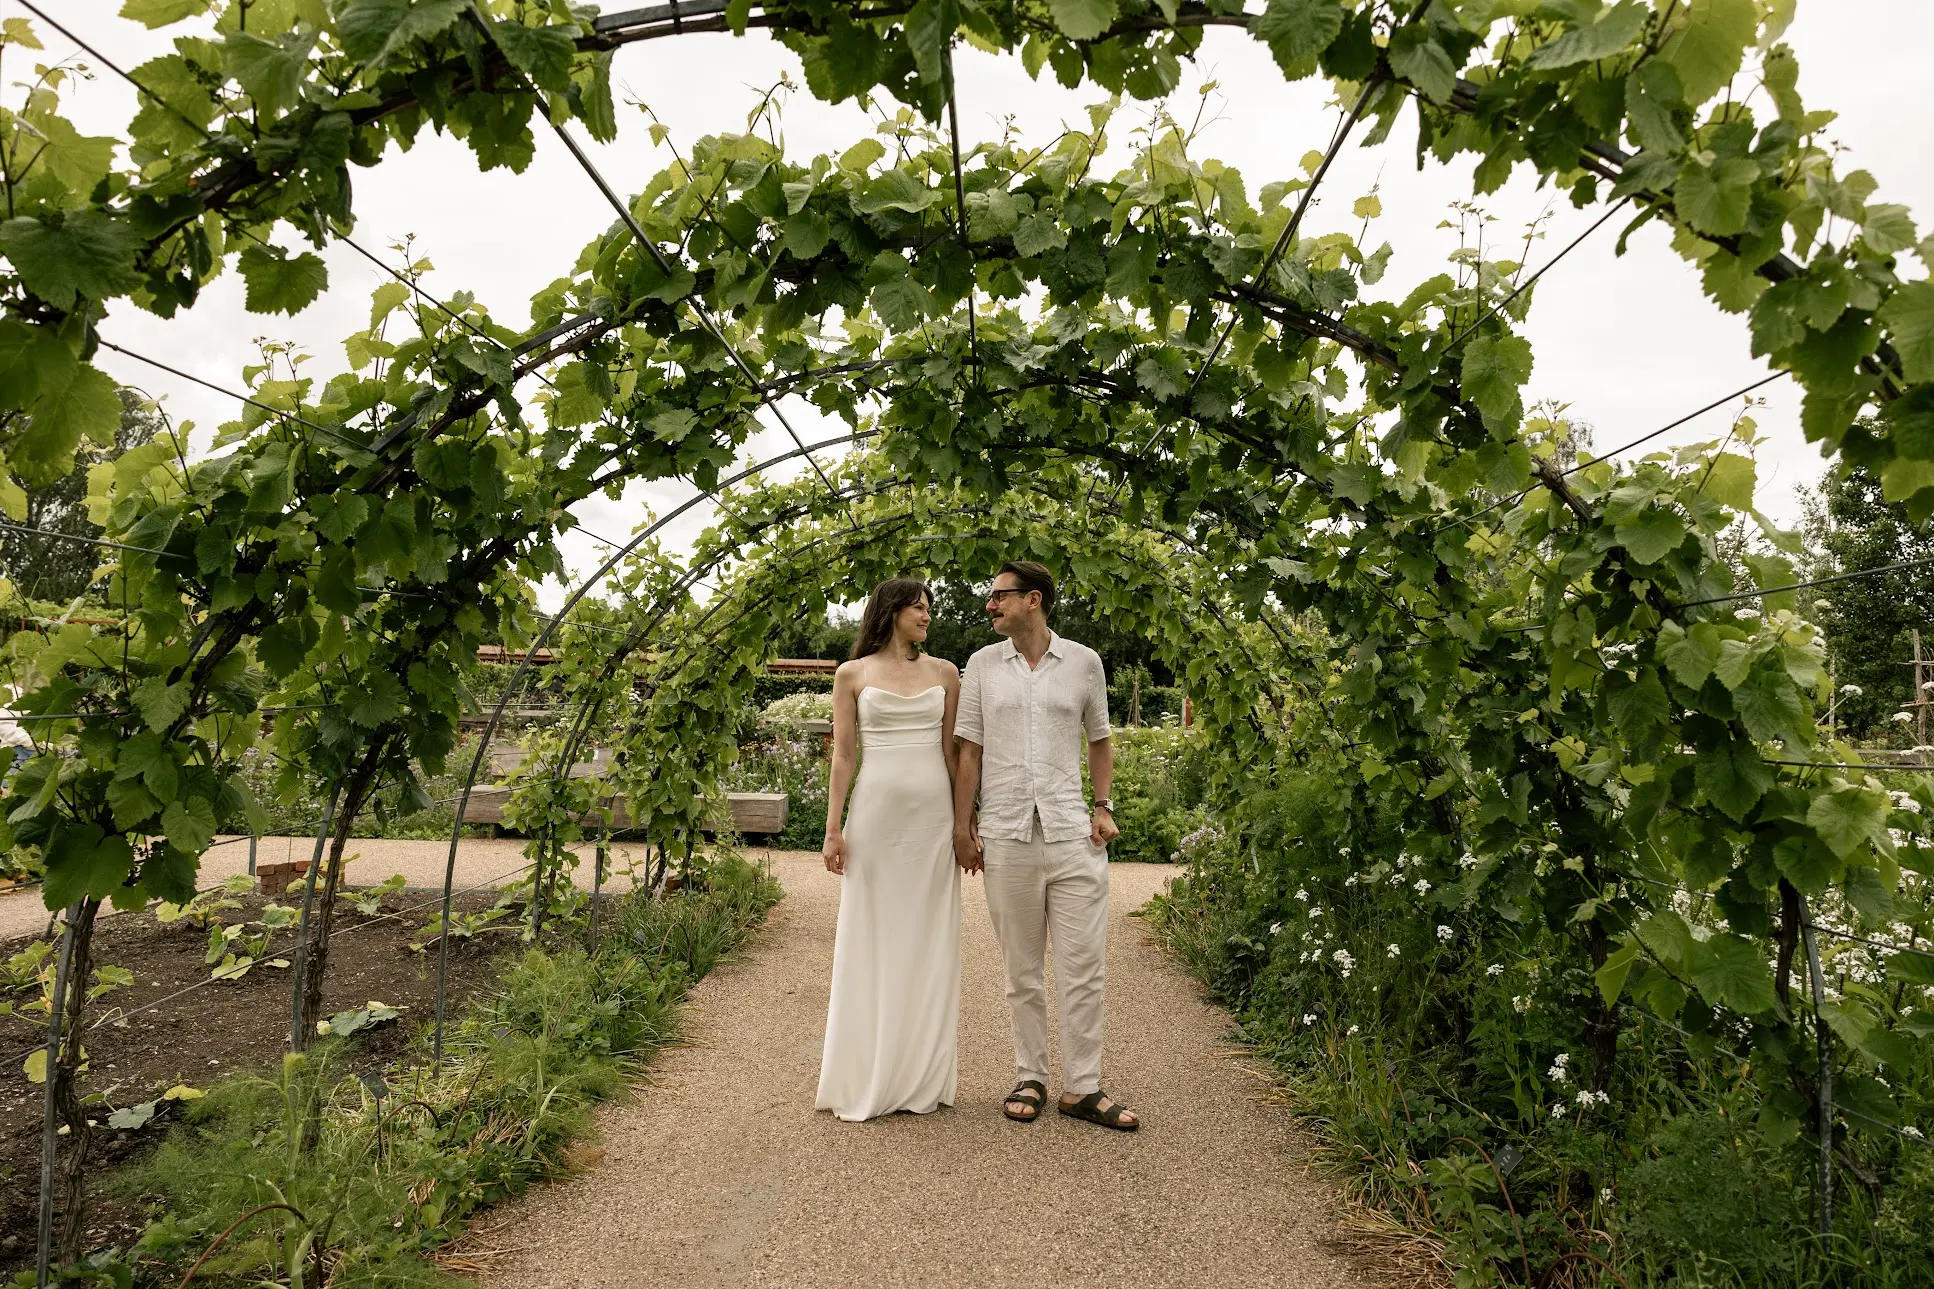
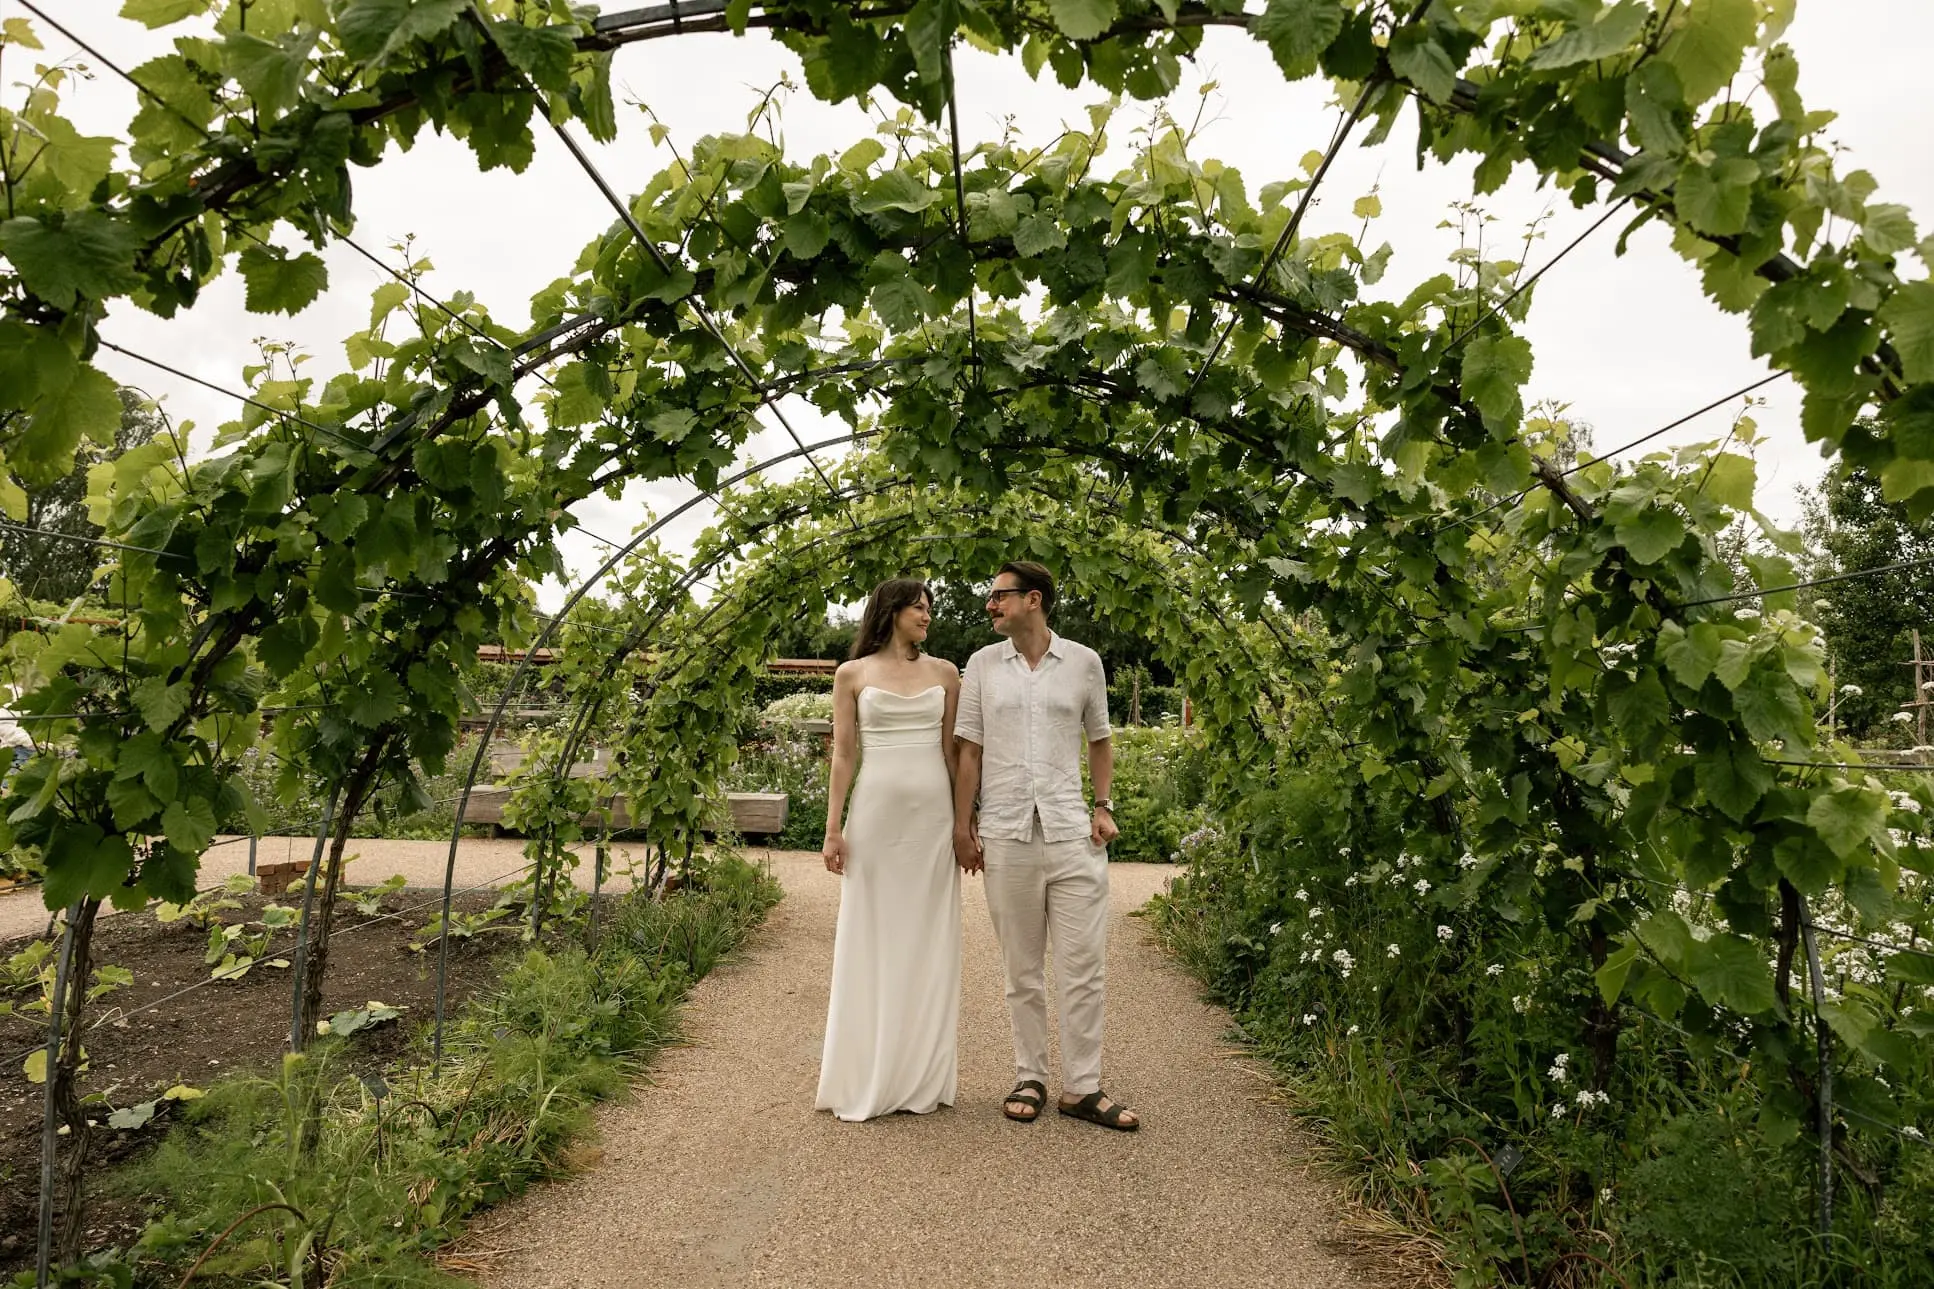
Update RSVP form

diff --git a/src/routes/rsvp.jsx b/src/routes/rsvp.jsx
@@ -1,27 +1,20 @@
 import styled from "styled-components";
 import { useState } from "react";
-import { Stack } from "../components/Layout";
+import { Stack, HR } from "../components/Layout";
 import { Heading, Paragraph, ScreenReaderOnly } from "../components/Typography";
 import { Button } from "../components/Button";
 import { FormInput, TwoAnswerQuestion } from "../components/FormInputs";
 
 const RSVP_ENDPOINT =
-  "https://script.google.com/macros/s/AKfycbyTogug2DLGjXcMxBn68KUJ5_nR8tPQ1jwRz4Es4-KSCtjFsclk2okp5ksrZtWxP8RX/exec";
+  "https://script.google.com/macros/s/AKfycbySwaxIGyxwybFtyLyeYJR0xToFsqi4qC2-RX2U-7pf0qrOwxW4-3O49BcYnAtEzhoQ/exec";
 
 const StyledForm = styled.form`
   display: flex;
   flex-direction: column;
-  gap: 1.5rem;
   width: 100%;
   & > button {
     align-self: center;
   }
-`;
-
-const StyledHR = styled.hr`
-  border: none;
-  border-top: 1px solid ${(props) => props.theme.text.body};
-  margin: 2rem 0;
 `;
 
 const FollowUpSection = styled.div`
@@ -43,7 +36,6 @@ const FollowUpSection = styled.div`
 const FollowUpSectionInner = styled.div`
   display: flex;
   flex-direction: column;
-  gap: 1.5rem;
 `;
 
 export const Component = (props) => {
@@ -51,6 +43,7 @@ export const Component = (props) => {
   const [submitError, setSubmitError] = useState(null);
   const [isSubmitting, setIsSubmitting] = useState(false);
   const [attendingSelection, setAttendingSelection] = useState(null);
+  const [bringingChildren, setBringingChildren] = useState(null);
 
   const handleSubmit = async (event) => {
     event.preventDefault();
@@ -93,7 +86,7 @@ export const Component = (props) => {
   };
 
   return (
-    <Stack $alignMobile="center" $gap="2rem" $width="100%">
+    <Stack $alignMobile="center" $width="100%">
       <Heading $size="xl" id="career">
         RSVP
       </Heading>
@@ -126,21 +119,36 @@ export const Component = (props) => {
           <FollowUpSection $collapsed={attendingSelection === "no"}>
             <FollowUpSectionInner>
               <TwoAnswerQuestion
-                name="guestType"
-                label="Are you a 12PM or a 6PM guest?"
+                name="bringingChildren"
+                label="Are you bringing children?"
                 options={[
-                  { label: "12PM", value: "12pm" },
-                  { label: "6PM", value: "6pm" },
+                  { label: "Yes", value: "yes" },
+                  { label: "No", value: "no" },
                 ]}
+                onChange={(event) => setBringingChildren(event.target.value)}
               />
+              <FollowUpSection $collapsed={bringingChildren !== "yes"}>
+                <FollowUpSectionInner>
+                  <FormInput
+                    name="numberOfChildren"
+                    label="Number of children"
+                    type="text"
+                  />
+                  <FormInput
+                    name="agesOfChildren"
+                    label="Ages of children"
+                    type="text"
+                  />
+                </FollowUpSectionInner>
+              </FollowUpSection>
               <FormInput
                 name="dietaryRequirements"
-                label="Dietary requirements"
+                label="Any dietary requirements?"
                 type="text"
               />
               <TwoAnswerQuestion
                 name="roomAtManchesterHall"
-                label="Do you need a room at Manchester Hall?"
+                label="Would you like a room at Manchester Hall?"
                 hint="There are a limited number of rooms available, so we can't guarantee there'll be one for everyone, but we'll do our best!"
                 options={[
                   { label: "Yes", value: "yes" },
@@ -149,7 +157,7 @@ export const Component = (props) => {
               />
             </FollowUpSectionInner>
           </FollowUpSection>
-          <StyledHR />
+          {/* <HR /> */}
           <Button as="button" type="submit" disabled={isSubmitting}>
             {isSubmitting ? "Submitting..." : "Submit"}
           </Button>

diff --git a/src/components/Layout.jsx b/src/components/Layout.jsx
@@ -42,7 +42,8 @@ const Header = styled.header(props => css`
   width: 100%;
   display: flex;
   flex-flow: column;
-  gap: 1rem;
+  gap: ${ props => props.$gap ?? '1rem' };
+  transition: all 0.5s ease;
   @media (max-width: ${props => props.theme.breakpoints.mobile}) {
     justify-content: center;
     align-items: center;
@@ -57,7 +58,7 @@ const Nav = styled.nav(props => css`
   height: fit-content;
   @media (max-width: ${props => props.theme.breakpoints.mobile}) {
     width: 100vw;
-    margin-top: 1rem;
+    /* margin-top: 1rem; */
   }
 `)
 
@@ -76,6 +77,8 @@ const Stack = styled.div(props => css`
   max-width: 100%;
   width: ${props => props.$width ?? 'unset'};
   gap: ${props => props.$gap ?? '1rem'};
+  justify-content: ${props => props.$justify ? props.$justify : 'center'};
+  align-items: ${props => props.$align ? props.$align : 'center'};
   flex-grow: 1;
   @media (max-width: ${props => props.theme.breakpoints.mobile}) {
     width: 100%;
@@ -83,4 +86,12 @@ const Stack = styled.div(props => css`
   }
 `)
 
-export { Cluster, ContentContainer, Header, Main, Nav, Stack }
+const HR = styled.hr`
+  border: none;
+  border-top: 1px solid ${(props) => props.theme.text.body};
+  margin: 0 auto;
+  width: 33%;
+  opacity: 0.55;
+`;
+
+export { Cluster, ContentContainer, Header, Main, Nav, Stack, HR }

diff --git a/src/components/FormInputs.jsx b/src/components/FormInputs.jsx
@@ -5,7 +5,8 @@ const StyledLabel = styled.label(
     display: block;
     font-family: ${(props) => props.theme.fonts.body};
     color: ${(props) => props.theme.text.body};
-    font-size: 1.5rem;
+    font-size: 1.125rem;
+    margin-bottom: 1rem;
   `,
 );
 
@@ -21,13 +22,14 @@ const StyledInput = styled.input(
     border: none;
     border-radius: 0.25rem;
     box-shadow: 0 0 0 1px ${(props) => props.theme.text.body};
+    margin-bottom: 2rem;
     outline: none;
     transition: box-shadow 0.2s ease;
     &:active,
     &:focus {
       box-shadow: 0 0 0 2px ${(props) => props.theme.text.body};
     }
-  `,
+    `,
 );
 
 const StyledFieldset = styled.fieldset(
@@ -35,6 +37,7 @@ const StyledFieldset = styled.fieldset(
     border: none;
     padding: 0;
     margin: 0;
+    margin-bottom: 2rem;
   `,
 );
 
@@ -42,8 +45,8 @@ const StyledLegend = styled.legend(
   (props) => css`
     font-family: ${(props) => props.theme.fonts.body};
     color: ${(props) => props.theme.text.body};
-    font-size: 1.5rem;
-    margin-bottom: 1.5rem;
+    font-size: 1.125rem;
+    margin-bottom: 1rem;
   `,
 );
 

diff --git a/src/routes/gifts.jsx b/src/routes/gifts.jsx
@@ -1,16 +1,20 @@
 import { Stack } from "../components/Layout"
 import { Heading, Paragraph, RollingText } from "../components/Typography"
+import { Button } from "../components/Button"
+import { LightBox } from "../components/LightBox"
 
 
 export const Component = props => {
   return (
-  <Stack $alignMobile='center' $gap='3.5rem'>
+  <Stack $alignMobile='center' $gap='2rem'>
     <Heading $size='xl' id='career'>
       Gifts
     </Heading>
     <Paragraph>
-      Presents aren't necessary, but if you want to give us a gift, we would be grateful for contributions towards our honeymoon in <RollingText terms={['Mexico', 'Vietnam', 'Mauritius', 'Madagascar', 'The Maldives', 'Jamaica', 'St. Lucia']} interval={2000} />.
+      Presents aren't necessary, but if you would like to give us a gift, we'd be grateful for contributions towards our honeymoon in <RollingText terms={['Mexico', 'Vietnam', 'Mauritius', 'Madagascar', 'The Maldives', 'Jamaica', 'St. Lucia']} interval={2000} />.
     </Paragraph>
+    <Button to='/collection' viewTransition>Honeymoon pot</Button>
+    <LightBox src='photo2' />
   </Stack>
   )
 }

diff --git a/src/routes/location.jsx b/src/routes/location.jsx
@@ -1,4 +1,4 @@
-import { Stack } from "../components/Layout";
+import { Stack, HR } from "../components/Layout";
 import {
   ExternalLink,
   Heading,
@@ -29,6 +29,7 @@ export const Component = (props) => {
         </ExternalLink>{" "}
         on Bridge Street, over the road from MOJO (afterparty anyone?)
       </Paragraph>
+      <HR />
       <Heading as="h2" $size="l">
         Getting there
       </Heading>
@@ -40,12 +41,13 @@ export const Component = (props) => {
         Manchester Piccadilly station, and a 15-minute walk from Manchester
         Victoria station.
       </Paragraph>
+      <HR />
       <Heading as="h2" $size="l">
         Nearby car parks
       </Heading>
       {/* <Paragraph>
         There are a number of car parking options close to the venue:
-      </Paragraph> */}
+        </Paragraph> */}
       <UnorderedList>
         <li>
           <ExternalLink
@@ -72,6 +74,7 @@ export const Component = (props) => {
           </ExternalLink>
         </li>
       </UnorderedList>
+      <HR />
       <Heading as="h2" $size="l">
         Nearby hotels
       </Heading>

diff --git a/src/components/Typography.jsx b/src/components/Typography.jsx
@@ -9,15 +9,19 @@ const HeadingSizes =  {
   `,
   xxl: css`
   font-size: 3rem;
+  line-height: 1.1;
   `,
   xl: css`
   font-size: 1.9rem;
+  line-height: 1.1;
   `,
   l: css`
   font-size: 1.5rem;
+  line-height: 1.1;
   `,
   m: css`
   font-size: 1.25rem;
+  line-height: 1.1;
   `
 }
 

diff --git a/src/routes/_index.jsx b/src/routes/_index.jsx
@@ -7,7 +7,7 @@ export const Component = () => (
   <>
     <Heading $size="xxxl">Nat and James</Heading>
     <Button to='/rsvp' viewTransition>RSVP</Button>
-    <Paragraph $size='l'>
+    <Paragraph>
       invite you to celebrate their wedding on Saturday 28th November 2026
     </Paragraph>
     <LightBox src='photo' />

diff --git a/src/templates/PageTemplate.jsx b/src/templates/PageTemplate.jsx
@@ -32,7 +32,7 @@ export const PageTemplate = props => {
     <ScreenReaderOnly  aria-live='polite' aria-atomic='true' as='aside' ref={pageStartRef} tabIndex='-1'>{`Viewing page: ${document.title}`}</ScreenReaderOnly>
     <SkipLink as='a' href='#main-content'>Skip to main content</SkipLink>
     <ContentContainer>
-      <Header role='banner'>
+      <Header $gap={location.pathname === '/' ? '0rem' : '1rem'} role='banner'>
         <Heading $screenReaderOnly={location.pathname === '/'} $size='xl' as={Link} to='/' viewTransition aria-label='Home - Nat and James'>Nat and James</Heading>
         <Nav aria-label='primary'>
           <NavButton to='/rsvp' viewTransition>RSVP</NavButton>